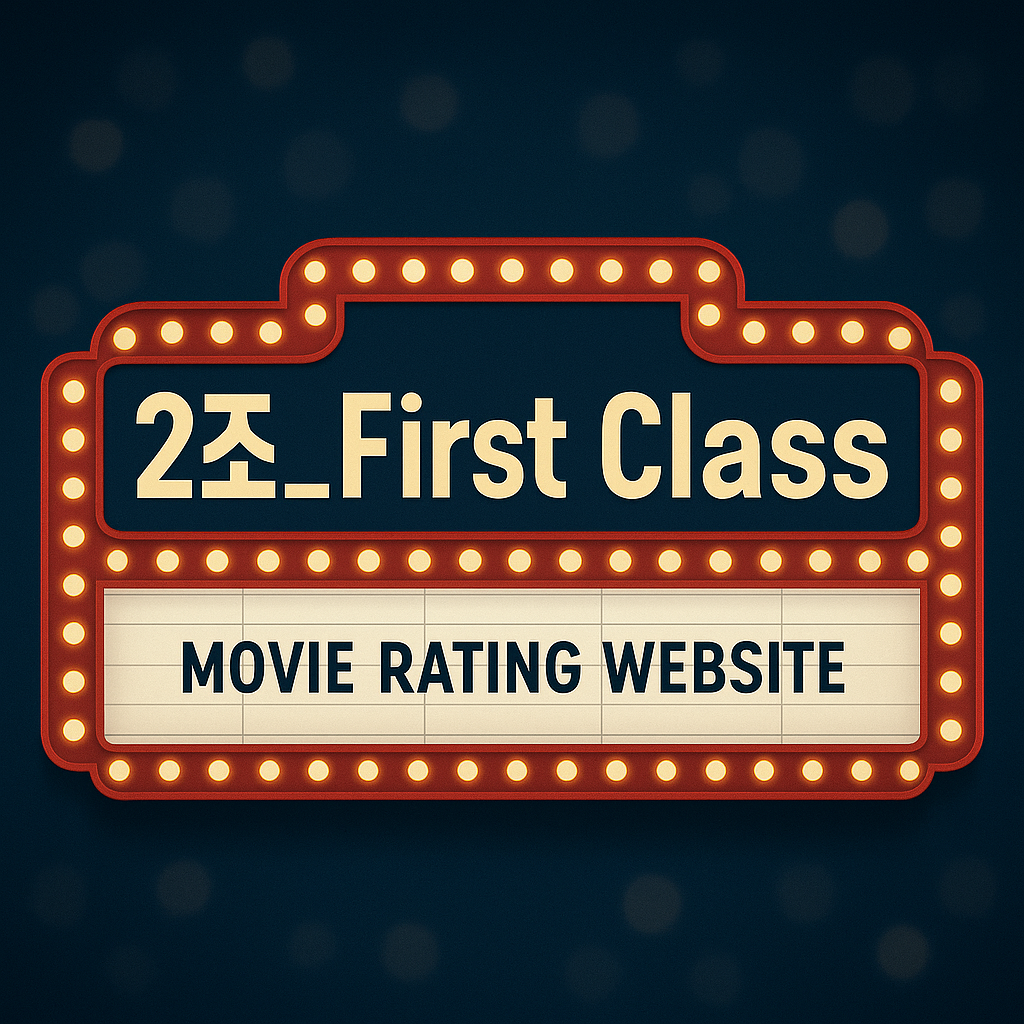
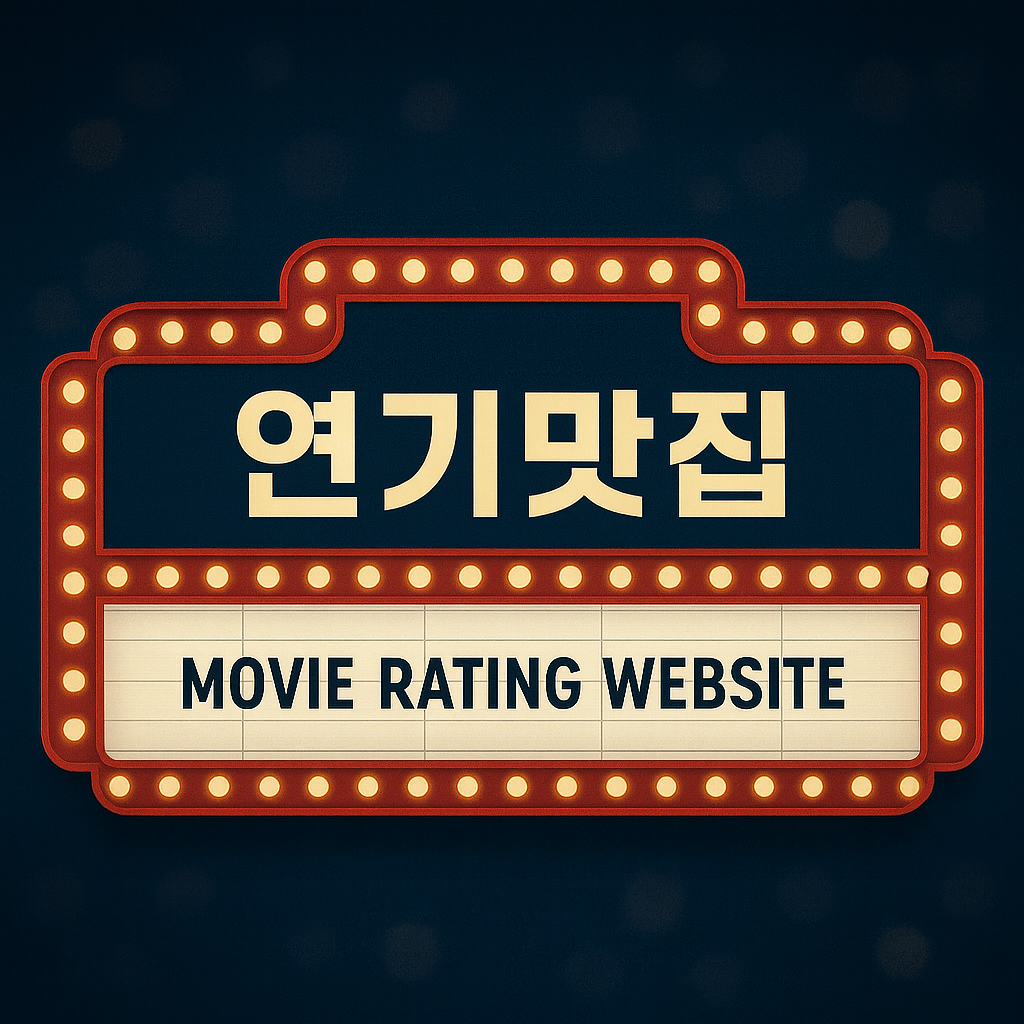
배너 파일 교체와 리드미 도입부 수정입니다

diff --git a/README.md b/README.md
@@ -1,5 +1,5 @@
-# First Class 영화 평점 사이트
-![배너](./images/다다익성_팝업배너.png)
+# 연기맛집 - 영화 평점 사이트
+![배너](./images/banner.png)
 
 
 ---
@@ -40,7 +40,7 @@
 <br />
 
 
-**First Class**는 기존 영화 중심의 평점 시스템에서 벗어나, 배우 개개인의 연기력과 기여도에 집중한 **영화 리뷰 플랫폼**입니다.  
+**연기맛집**는 기존 영화 중심의 평점 시스템에서 벗어나, 배우 개개인의 연기력과 기여도에 집중한 **영화 리뷰 플랫폼**입니다.  
 <br />
 
 사용자는 영화에 대한 전반적인 평점뿐만 아니라, 배우 개개인에 대한 정량적 평가와 자유로운 의견을 남길 수 있으며,  
